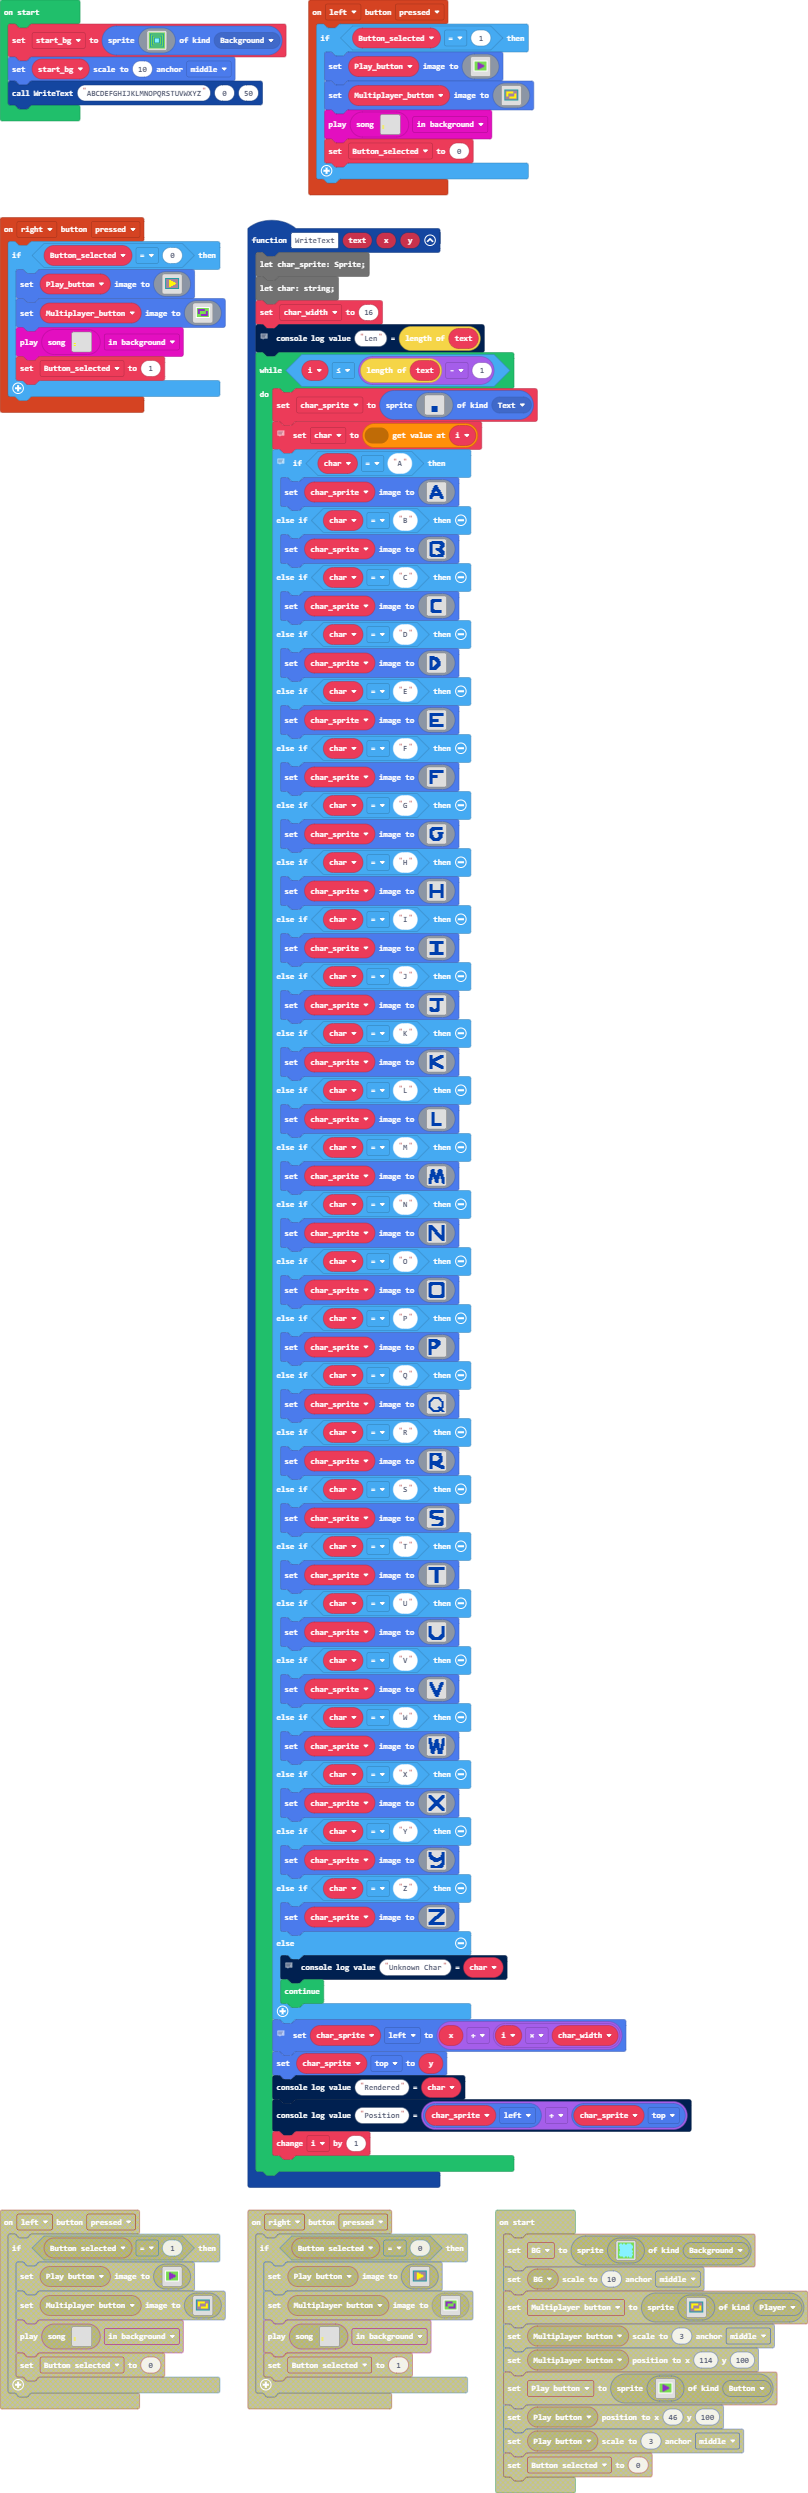
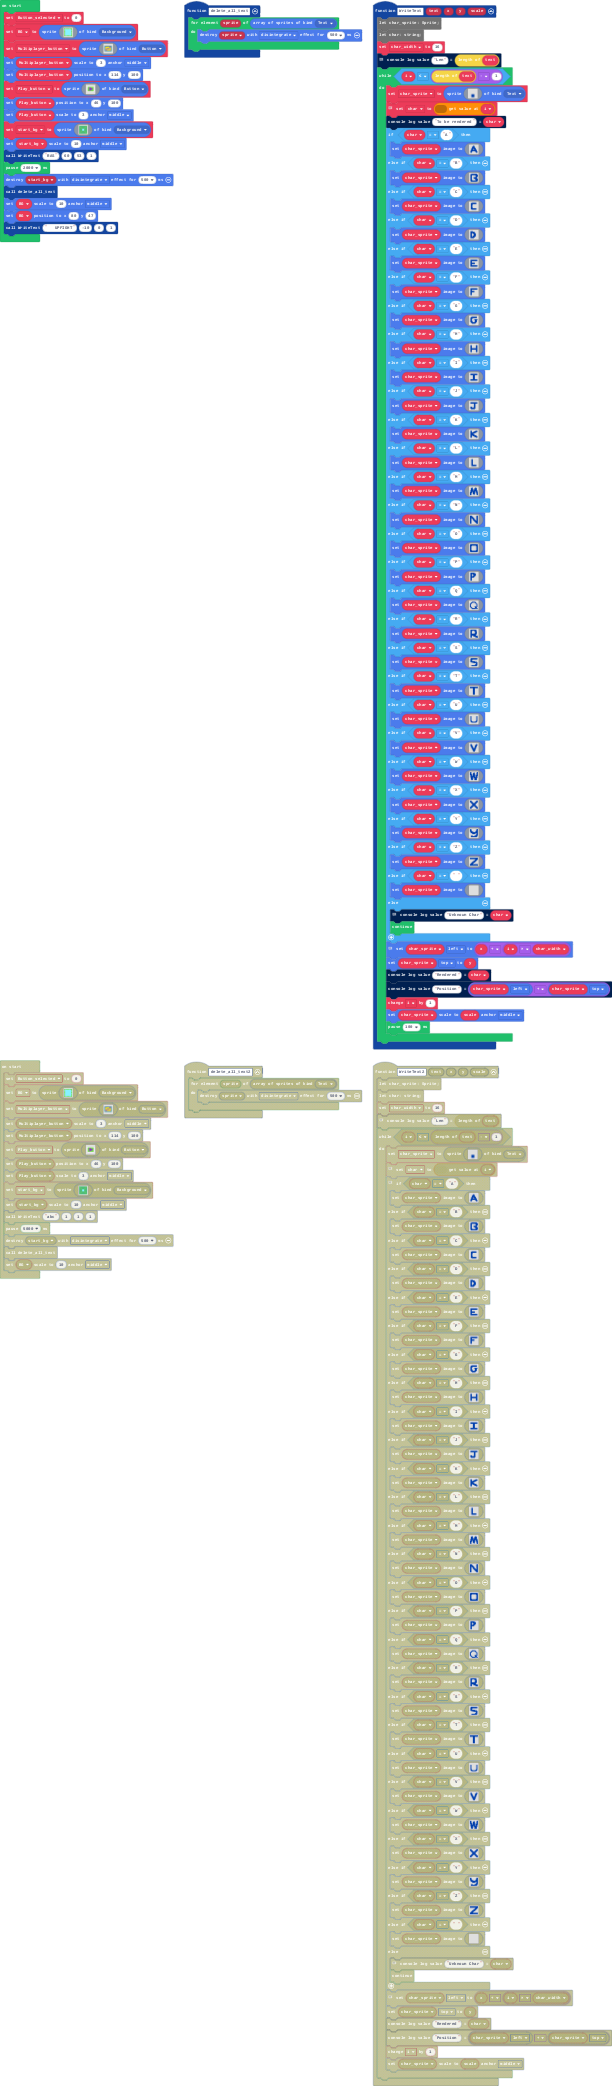
Add a song and some text

diff --git a/images.g.ts b/images.g.ts
@@ -269,25 +269,6 @@ namespace myImages {
 8 8 8 8 8 8 8 8 8 8 8 8 8 8 8 8 
 . 8 8 8 8 8 8 8 8 8 8 8 8 8 8 . 
 `;
-            case "image21":
-            case "P":return img`
-8 8 8 8 8 8 8 8 8 . . . . . . . 
-8 8 8 8 8 8 8 8 8 8 8 . . . . . 
-8 8 8 8 8 8 8 8 8 8 8 8 . . . . 
-8 8 8 . . . 8 8 8 8 8 8 . . . . 
-8 8 8 . . . . 8 8 8 8 8 . . . . 
-8 8 8 . . . . 8 8 8 8 8 . . . . 
-8 8 8 . . . 8 8 8 8 8 . . . . . 
-8 8 8 8 8 8 8 8 8 8 . . . . . . 
-8 8 8 8 8 8 8 8 8 . . . . . . . 
-8 8 8 8 8 8 8 8 . . . . . . . . 
-8 8 8 . . . . . . . . . . . . . 
-8 8 8 . . . . . . . . . . . . . 
-8 8 8 . . . . . . . . . . . . . 
-8 8 8 . . . . . . . . . . . . . 
-8 8 8 . . . . . . . . . . . . . 
-8 8 8 . . . . . . . . . . . . . 
-`;
             case "image22":
             case "Q":return img`
 . . . . . . . . . . . . . . . . 
@@ -363,25 +344,6 @@ namespace myImages {
 . . . . . . 8 8 8 8 . . . . . . 
 . . . . . . 8 8 8 8 . . . . . . 
 . . . . . . 8 8 8 8 . . . . . . 
-`;
-            case "image26":
-            case "U":return img`
-. . . . . . . . . . . . . . . . 
-. . . . . . . . . . . . . . . . 
-8 8 8 . . . . . . . . . . 8 8 8 
-8 8 8 . . . . . . . . . . 8 8 8 
-8 8 8 . . . . . . . . . . 8 8 8 
-8 8 8 . . . . . . . . . . 8 8 8 
-8 8 8 . . . . . . . . . . 8 8 8 
-8 8 8 . . . . . . . . . . 8 8 8 
-8 8 8 . . . . . . . . . . 8 8 8 
-8 8 8 . . . . . . . . . . 8 8 8 
-8 8 8 8 . . . . . . . . 8 8 8 8 
-8 8 8 8 8 . . . . . . 8 8 8 8 8 
-8 8 8 8 8 8 . . . . 8 8 8 8 8 8 
-. 8 8 8 8 8 8 8 8 8 8 8 8 8 8 . 
-. . 8 8 8 8 8 8 8 8 8 8 8 8 . . 
-. . . 8 8 8 8 8 8 8 8 8 8 . . . 
 `;
             case "image27":
             case "V":return img`
@@ -477,25 +439,6 @@ namespace myImages {
 8 8 8 8 8 8 8 8 8 8 8 8 8 8 8 8 
 8 8 8 8 8 8 8 8 8 8 8 8 8 8 8 8 
 8 8 8 8 8 8 8 8 8 8 8 8 8 8 8 8 
-`;
-            case "image1":
-            case "Background":return img`
-7 7 7 7 7 7 7 7 7 7 7 7 7 7 7 7 
-7 7 9 9 7 9 9 7 7 9 9 9 9 7 7 7 
-7 9 9 9 9 9 9 9 9 9 9 9 9 9 7 7 
-7 9 9 9 9 9 9 9 9 9 9 9 9 9 9 7 
-7 7 9 9 9 9 9 9 9 9 9 9 9 9 9 7 
-7 9 9 9 9 9 9 9 9 9 9 9 9 9 9 7 
-7 7 9 9 9 9 9 9 9 9 9 9 9 9 7 7 
-7 7 9 9 9 9 9 9 9 9 9 9 9 9 7 7 
-7 7 9 9 9 9 9 9 9 9 9 9 9 9 9 7 
-7 9 9 9 9 9 9 9 9 9 9 9 9 9 9 7 
-7 7 9 9 9 9 9 9 9 9 9 9 9 9 7 7 
-7 9 9 9 9 9 9 9 9 9 9 9 9 9 9 7 
-7 9 9 9 9 9 9 9 9 9 9 9 9 9 9 7 
-7 7 9 9 9 9 9 9 9 9 9 9 9 9 7 7 
-7 7 7 7 7 9 9 7 7 9 7 9 9 9 7 7 
-7 7 7 7 7 7 7 7 7 7 7 7 7 7 7 7 
 `;
             case "image4":
             case "Play button":return img`
@@ -687,6 +630,63 @@ namespace myImages {
 . . . . . . . . . . . . . . . . 
 . . . . . . . . . . . . . . . . 
 `;
+            case "image1":
+            case "Background":return img`
+7 7 7 7 7 7 7 7 7 7 7 7 7 7 7 7 
+7 7 9 9 7 9 9 7 7 9 9 9 9 7 7 7 
+7 9 9 9 9 9 9 9 9 9 9 9 9 9 7 7 
+7 9 9 9 9 9 9 9 9 9 9 9 9 9 9 7 
+7 7 9 9 9 9 9 9 9 9 9 9 9 9 9 7 
+7 9 9 9 9 9 9 9 9 9 9 9 9 9 9 7 
+7 7 9 9 9 9 9 9 9 9 9 9 9 9 7 7 
+7 7 9 9 9 9 9 9 9 9 9 9 9 9 7 7 
+7 7 9 9 9 9 9 9 9 9 9 9 9 9 9 7 
+7 9 9 9 9 9 9 9 9 9 9 9 9 9 9 7 
+7 7 9 9 9 9 9 9 9 9 9 9 9 9 7 7 
+7 9 9 9 9 9 9 9 9 9 9 9 9 9 9 7 
+7 9 9 9 9 9 9 9 9 9 9 9 9 9 9 7 
+7 7 9 9 9 9 9 9 9 9 9 9 9 9 7 7 
+7 7 9 9 9 9 9 7 7 9 9 9 9 9 7 7 
+7 7 7 7 7 7 7 7 7 7 7 7 7 7 7 7 
+`;
+            case "image21":
+            case "P":return img`
+. 8 8 8 8 8 8 8 8 . . . . . . . 
+. 8 8 8 8 8 8 8 8 8 8 . . . . . 
+. 8 8 8 8 8 8 8 8 8 8 8 . . . . 
+. 8 8 8 . . 8 8 8 8 8 8 . . . . 
+. 8 8 8 . . . 8 8 8 8 8 . . . . 
+. 8 8 8 . . . 8 8 8 8 8 . . . . 
+. 8 8 8 . . 8 8 8 8 8 . . . . . 
+. 8 8 8 8 8 8 8 8 8 . . . . . . 
+. 8 8 8 8 8 8 8 8 . . . . . . . 
+. 8 8 8 8 8 8 8 . . . . . . . . 
+. 8 8 8 . . . . . . . . . . . . 
+. 8 8 8 . . . . . . . . . . . . 
+. 8 8 8 . . . . . . . . . . . . 
+. 8 8 8 . . . . . . . . . . . . 
+. 8 8 8 . . . . . . . . . . . . 
+. 8 8 8 . . . . . . . . . . . . 
+`;
+            case "image26":
+            case "U":return img`
+. . . . . . . . . . . . . . . . 
+. . . . . . . . . . . . . . . . 
+. 8 8 . . . . . . . . . . 8 8 . 
+. 8 8 . . . . . . . . . . 8 8 . 
+. 8 8 . . . . . . . . . . 8 8 . 
+. 8 8 . . . . . . . . . . 8 8 . 
+. 8 8 . . . . . . . . . . 8 8 . 
+. 8 8 . . . . . . . . . . 8 8 . 
+. 8 8 . . . . . . . . . . 8 8 . 
+. 8 8 . . . . . . . . . . 8 8 . 
+. 8 8 . . . . . . . . . . 8 8 . 
+. 8 8 8 . . . . . . . . 8 8 8 . 
+. 8 8 8 8 . . . . . . 8 8 8 8 . 
+. . 8 8 8 8 8 8 8 8 8 8 8 8 . . 
+. . . 8 8 8 8 8 8 8 8 8 8 . . . 
+. . . . . . . . . . . . . . . . 
+`;
         }
         return null;
     })
@@ -703,7 +703,9 @@ namespace myImages {
             case "song1":
[1 lines of base64/hex data omitted]
             case "song2":
[2 lines of base64/hex data omitted]
+            case "song3":
[1 lines of base64/hex data omitted]
         }
         return null;
     })

diff --git a/main.ts b/main.ts
@@ -40,7 +40,7 @@ function WriteText(text: string, x: number, y: number, scale: number) {
         `, SpriteKind.Text)
         //  Determine the character to use for the image
         char = text[i]
-        //  Convert to uppercase for consistency
+        console.logValue("To be rendered", char)
         if (char == "A") {
             char_sprite.setImage(assets.image`
                 A
@@ -190,9 +190,7 @@ let Button_selected = 0
 let BG = sprites.create(assets.image`
     Background
 `, SpriteKind.Background)
-Multiplayer_button = sprites.create(assets.image`
-        Multiplayer button
-    `, SpriteKind.Button)
+Multiplayer_button = sprites.create(assets.image`Multiplayer button`, SpriteKind.Button)
 Multiplayer_button.setScale(3, ScaleAnchor.Middle)
 Multiplayer_button.setPosition(114, 100)
 Play_button = sprites.create(assets.image`
@@ -204,11 +202,21 @@ let start_bg = sprites.create(assets.image`
     bg start
 `, SpriteKind.Background)
 start_bg.setScale(10, ScaleAnchor.Middle)
-WriteText("WIP", 60, 53, 1)
-pause(5000)
+WriteText("RAS", 58, 53, 1)
+pause(2000)
 sprites.destroy(start_bg, effects.disintegrate, 500)
 delete_all_text()
 BG.setScale(10, ScaleAnchor.Middle)
+BG.setPosition(80, 47)
+WriteText("   UPFIGHT", -20, 10, 1)
+WriteText("          PLAY", -150, 60, 1)
+WriteText("              SOON", -140, 60, 1)
+controller.A.onEvent(ControllerButtonEvent.Pressed, function on_event_pressed() {
+    if (Button_selected2 == 0) {
+        console.logValue("Play buttton pressed", true)
+    }
+    
+})
 game.onUpdate(function on_on_update() {
     
 })

diff --git a/main.py b/main.py
@@ -35,7 +35,8 @@ def WriteText(text: str, x: number, y: number, scale: number):
         """), SpriteKind.Text)
         # Determine the character to use for the image
         char = text[i]
-        # Convert to uppercase for consistency
+        console.log_value("To be rendered", char)
+
         if char == "A":
             char_sprite.set_image(assets.image("""
                 A
@@ -155,6 +156,7 @@ def WriteText(text: str, x: number, y: number, scale: number):
         console.log_value("Position", char_sprite.left + char_sprite.top)
         i += 1
         char_sprite.set_scale(scale, ScaleAnchor.MIDDLE)
+        
 
 def on_right_pressed():
     global Button_selected2
@@ -181,9 +183,7 @@ Button_selected = 0
 BG = sprites.create(assets.image("""
     Background
 """), SpriteKind.Background)
-Multiplayer_button = sprites.create(assets.image("""
-        Multiplayer button
-    """),
+Multiplayer_button = sprites.create(assets.image("""Multiplayer button"""),
     SpriteKind.Button)
 Multiplayer_button.set_scale(3, ScaleAnchor.MIDDLE)
 Multiplayer_button.set_position(114, 100)
@@ -197,12 +197,22 @@ start_bg = sprites.create(assets.image("""
     bg start
 """), SpriteKind.Background)
 start_bg.set_scale(10, ScaleAnchor.MIDDLE)
-WriteText("WIP", 60, 53, 1)
-pause(5000)
+WriteText("RAS", 58, 53, 1)
+pause(2000)
 sprites.destroy(start_bg, effects.disintegrate, 500)
 delete_all_text()
 BG.set_scale(10, ScaleAnchor.MIDDLE)
+BG.set_position(80, 47)
+WriteText("   UPFIGHT", -20, 10, 1)
+WriteText("          PLAY", -150, 60, 1)
+WriteText("              SOON", -140, 60, 1)
 
 def on_on_update():
     pass
+    
+def on_event_pressed():
+    if Button_selected2 == 0:
+        console.log_value("Play buttton pressed", True)
+
+controller.A.on_event(ControllerButtonEvent.PRESSED, on_event_pressed)
 game.on_update(on_on_update)
